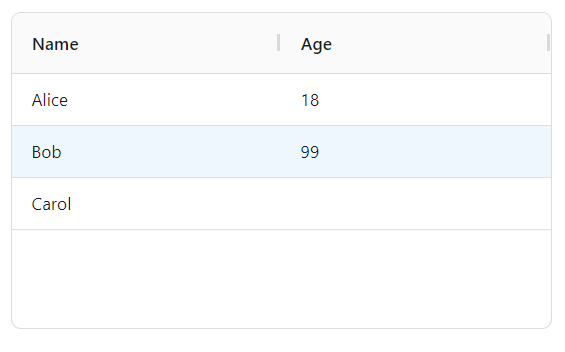
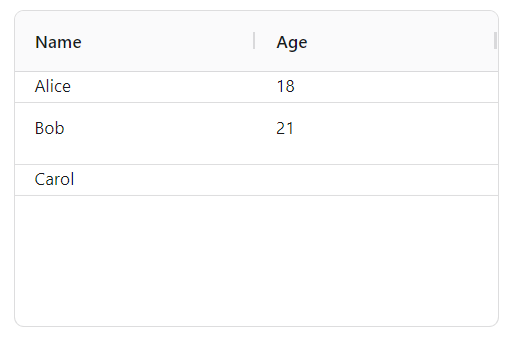
Update

diff --git a/blog/2026/nicegui_pro.md b/blog/2026/nicegui_pro.md
@@ -20984,6 +20984,56 @@ ui.run(
   ```
 
   ![2026_52_57](nicegui_pro.assets/2026_52_57.png)
+  
+- `on`方法，为控件的任意事件注册响应函数。该方法支持以下参数：
+
+  - `type`参数，字符串类型，表示事件类型。支持的事件可以参考 https://www.ag-grid.com/javascript-data-grid/grid-events/ 和 https://www.ag-grid.com/javascript-data-grid/column-events/ 。
+
+  - `handler`参数，可调用类型，表示服务器端的Python响应函数。响应函数接收一个表示事件对象的`events.GenericEventArguments`类型参数，该参数包含一个`args`属性。
+
+  - `arge`参数，`None`或者元素为字符串的序列或者元素为序列（元素为字符串）的单元素序列，表示客户端的哪些参数及其值在执行响应函数时，会传给响应函数接收参数的`args`属性（字典形式）。如果为`None`的话，表示将客户端所有的参数传入响应函数接收参数的`args`属性。
+
+  - `throttle`参数，浮点类型，表示事件之间的发生间隔，小于该间隔的事件不会重复处理（默认第一个和最后一个都会处理），该参数默认为`0.0`。从此参数开始，只能通过关键字传入。
+
+  - `leading_events`参数，布尔类型，事件发生间隔内的第一个事件发生时是否立即执行响应函数，默认为`True`。
+
+  - `trailing_events`参数，布尔类型，事件发生间隔内的最后一个事件发生后是否也要执行响应函数，默认为`True`。
+
+  - `js_handler`参数，字符串类型，表示客户端的JavaScript响应函数，默认为`'(...args) => emit(...args)'`。注意，如果JavaScript响应函数内不执行`emit`方法且与`handler`参数同时定义的话，`handler`参数表示的响应函数不会执行。而JavaScript响应函数内执行`emit`方法，会把传给该方法的参数，传给`handler`参数表示的响应函数中，接收参数的`args`属性。
+
+  示例如下：
+
+  ```python3
+  from nicegui import ui
+  
+  def index():
+      options = {
+          'columnDefs': [
+              {'headerName': 'Name', 'field': 'name'},
+              {'headerName': 'Age', 'field': 'age'},
+          ],
+          'rowData': [
+              {'name': 'Alice', 'age': 18},
+              {'name': 'Bob', 'age': 21},
+              {'name': 'Carol', 'age': None},
+          ],
+      }
+      ui.aggrid(
+          options=options
+      ).on(
+          'cellClicked', 
+          lambda event: ui.notify(
+              f'Cell value: {event.args["value"]}'
+          )
+      )
+  
+  ui.run(
+      root=index,
+      native=True
+  )
+  ```
+
+  ![2026_52_58](nicegui_pro.assets/2026_52_58.png)
 
 该控件支持以下类方法：
 
@@ -21057,7 +21107,7 @@ ui.run(
   )
   ```
 
-  ![2026_52_58](nicegui_pro.assets/2026_52_58.png)
+  ![2026_52_59](nicegui_pro.assets/2026_52_59.png)
 
 - `'rowHeight'`键，整数类型，表示所有行统一的行高。
 
@@ -21097,7 +21147,7 @@ ui.run(
   )
   ```
 
-  ![2026_52_59](nicegui_pro.assets/2026_52_59.png)
+  ![2026_52_60](nicegui_pro.assets/2026_52_60.png)
 
 - `'getRowId'`键，使用字符串表达的JavaScript函数，表示获取每一行ID的方法。该JavaScript函数支持以下位置参数（为了方便记忆，这里命名了参数，但实际使用时不限制参数名）：
 
@@ -21139,7 +21189,7 @@ ui.run(
   )
   ```
 
-  ![2026_52_60](nicegui_pro.assets/2026_52_60.png)
+  ![2026_52_61](nicegui_pro.assets/2026_52_61.png)
 
 - `'defaultColDef'`键，字典类型，表示默认的列定义，如果列没有指定同名列定义，那该键定义的列定义就会生效。
 
@@ -21173,9 +21223,21 @@ ui.run(
   )
   ```
 
+- `'defaultColGroupDef'`键，字典类型，表示默认的列组定义，如果列没有指定同名列组定义，那该键定义的列组定义就会生效。列组定义支持的键与列定义基本相同。
+
+  注意，受限于篇幅，列组的含义、相关用法、示例将在后面的章节介绍，本节中与列组相关的键均不提供示例代码。
+
+- `'floatingFiltersHeight'`键，整数类型，表示浮动过滤器所在行的行高。
+
+  注意，受限于篇幅，过滤器的含义、相关用法、示例将在后面的章节介绍，本节中与过滤器相关的键均不提供示例代码。
+
+- `'groupHeaderHeight'`键，---
+
+- `'hidePaddedHeaderRows'`键，
+
 - `'headerHeight'`键，整数类型，表示表头的高度。
 
-- `'suppressMovableColumns'`键，布尔类型，---
+- `'suppressMovableColumns'`键，布尔类型，
 
 - 
 
@@ -21184,6 +21246,7 @@ ui.run(
 - `'headerName'`键，
 - `'field'`键，
 - `'filter'`键，https://nicegui.io/documentation/aggrid#filter_rows_using_mini_filters
+- `'floatingFilter'`键，
 - `'cellClassRules'`键，https://nicegui.io/documentation/aggrid#ag_grid_with_conditional_cell_formatting
 
 
@@ -21212,17 +21275,15 @@ https://nicegui.io/documentation/aggrid#run_row_methods
 
 
 
-##### 52.2.2.3 其他（更新中）
+使用箭头函数作为控件方法名：
+
+https://nicegui.io/documentation/aggrid#filter_return_values
 
 
 
-响应表格的事件：
+##### 52.2.2.3 列组与复合数据（更新中）
 
-https://nicegui.io/documentation/aggrid#respond_to_an_ag_grid_event
 
-复合数据的使用：
-
-https://nicegui.io/documentation/aggrid#ag_grid_with_complex_objects
 
 列组的使用：
 
@@ -21266,13 +21327,15 @@ ui.run(
 
 
 
+复合数据的使用：
+
+https://nicegui.io/documentation/aggrid#ag_grid_with_complex_objects
 
 
-使用箭头函数作为控件方法名：
-
-https://nicegui.io/documentation/aggrid#filter_return_values
 
 
+
+##### 52.2.2.4 过滤器（更新中）
 
 过滤器相关：
 
@@ -21308,8 +21371,6 @@ ui.run(
     native=True
 )
 ```
-
-
 
 
 
